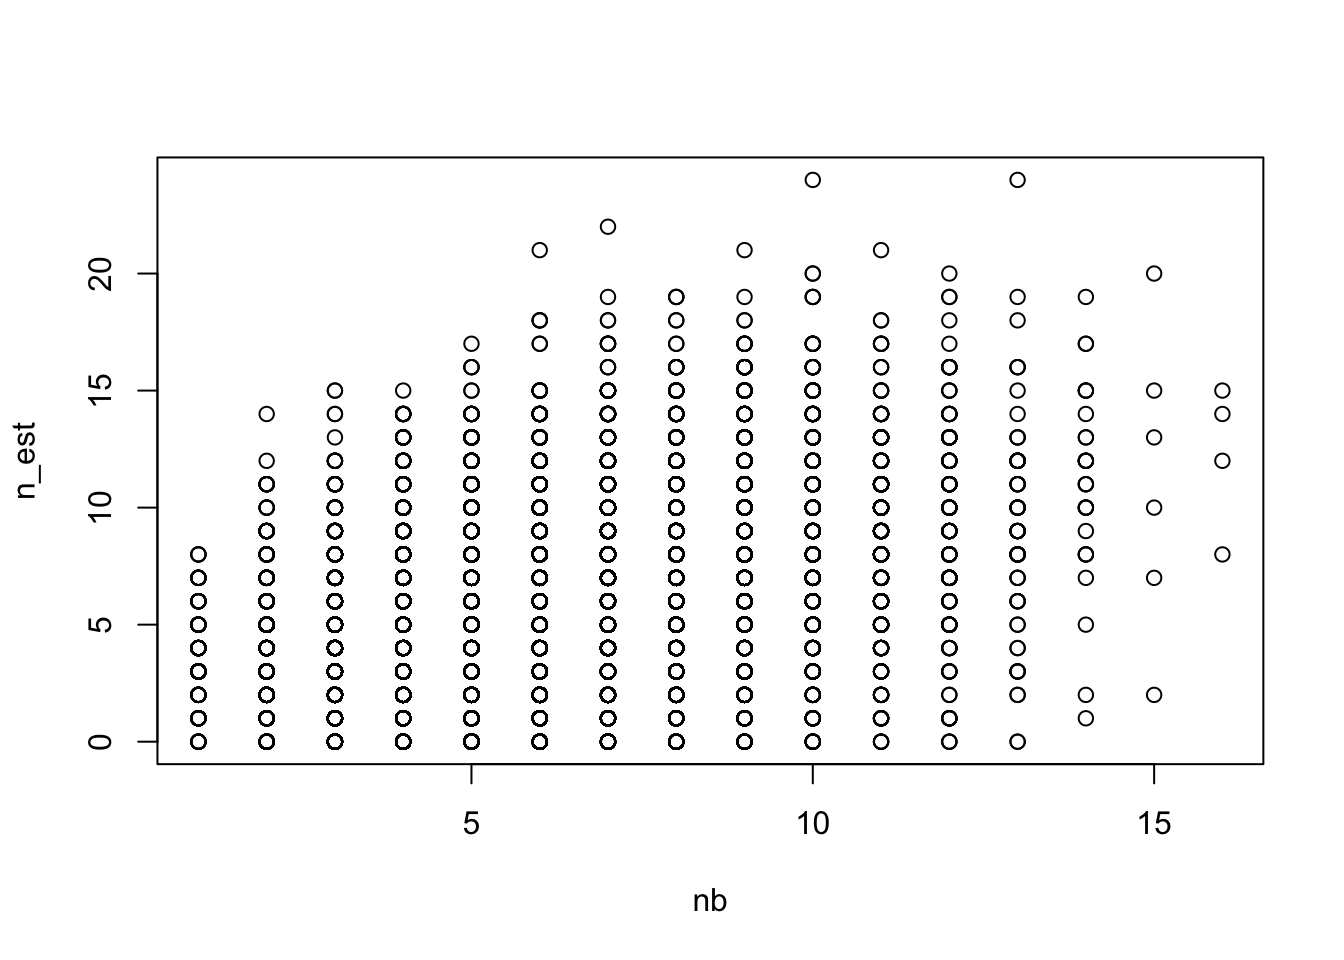
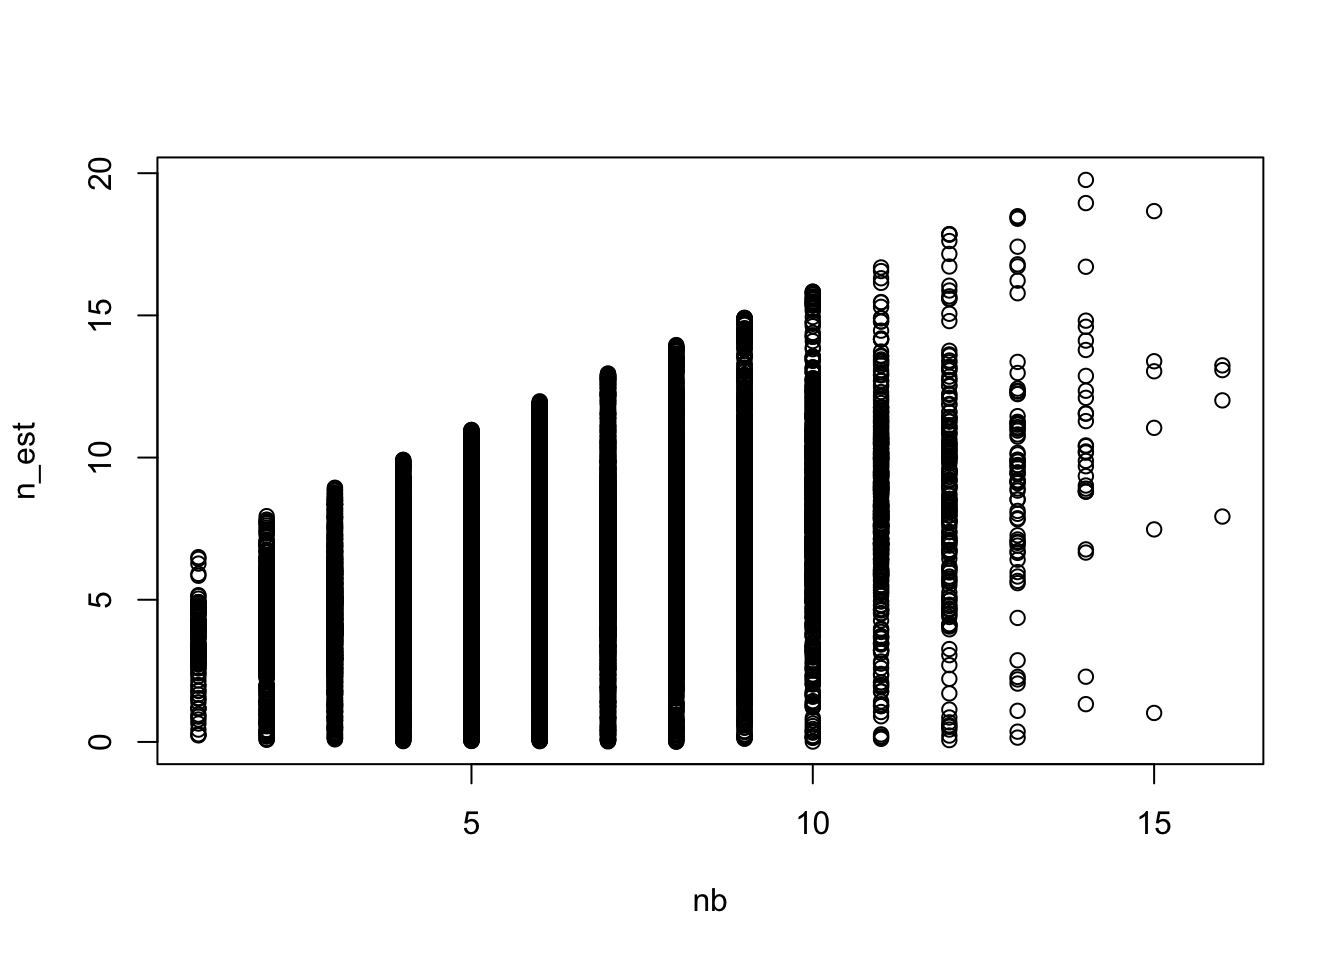
Build site.

diff --git a/docs/third-analysis.html b/docs/third-analysis.html
@@ -309,8 +309,8 @@ div.tocify {
 </div>
 
 
-<p><strong>Last updated:</strong> 2017-03-16</p>
-<p><strong>Code version:</strong> f221793</p>
+<p><strong>Last updated:</strong> 2017-04-19</p>
+<p><strong>Code version:</strong> ce45ab3</p>
 <div id="this-is-for-the-algorithem-for-the-binomial-data" class="section level2">
 <h2>This is for the algorithem for the binomial data</h2>
 Here our model is:
@@ -324,7 +324,7 @@ l_i \sim  \sum_m \pi_m^l N(l_i; 0, (\sigma_m^l)^2)
 <p>Here we allow that <span class="math inline">\((\sigma_{1}^f)^2 = 0\)</span> and <span class="math inline">\((\sigma_{1}^l)^2=0\)</span>, which means we include the point mass into the prior for each component for <span class="math inline">\(f\)</span> and <span class="math inline">\(l\)</span>.</p>
 <p>Inspired by David and following the technique in <a href="http://www.jmlr.org/proceedings/papers/v39/klami14.pdf">P`olya-Gamma augmentations for factor models</a>, we have that</p>
 <span class="math display">\[\begin{eqnarray}
-P(Y_{ij,\omega_{ij}}|Z_{ij}) = C^2_{(Y_{ij} +1)} 2^{-2}e^{Y_{ij}Z_{ij}}e^{-\omega_{ij}Z_{ij}^2 / 2}PG(\omega_{ij}|2,0)
+P(Y_{ij},\omega_{ij}|Z_{ij}) = C^2_{(Y_{ij} +1)} 2^{-2}e^{Y_{ij}Z_{ij}}e^{-\omega_{ij}Z_{ij}^2 / 2}PG(\omega_{ij}|2,0)
 \end{eqnarray}\]</span>
 <p>where <span class="math inline">\(C^2_{(Y_{ij} +1)} = \frac{2!}{(1 - Y_{ij})!(Y_{ij} +1)!}\)</span> and <span class="math inline">\(PG(\omega_{ij}|2,0)\)</span> is Polya-Gamma distribution.</p>
 </div>
@@ -490,9 +490,9 @@ f_int$Ef2 = gflash$f2
 Ltest = L_flash(NB,Y, L_K, F_K, l_int, f_int, maxiter = 200)
 
 sqrt(mean((Data$L_true %*% t(Data$F_true) - Ltest$l %*% t(Ltest$f))^2)) / sqrt(mean((Data$L_true %*% t(Data$F_true) )^2))</code></pre>
-<pre><code>[1] 0.1687944</code></pre>
+<pre><code>[1] 0.1662039</code></pre>
 <pre class="r"><code>sqrt(mean((Data$L_true %*% t(Data$F_true) - gflash$l %*% t(gflash$f))^2)) / sqrt(mean((Data$L_true %*% t(Data$F_true) )^2))</code></pre>
-<pre><code>[1] 0.3880428</code></pre>
+<pre><code>[1] 0.3867084</code></pre>
 <pre class="r"><code># rank K version
 # try the flash on the original data
 Data = datamaker(100,200,
@@ -518,9 +518,9 @@ gflash = flashr::greedy(Y,K = 8)</code></pre>
 [1] 5
 [1] &quot;stop here due to no signal&quot;</code></pre>
 <pre class="r"><code>sqrt(mean((Data$L_true %*% t(Data$F_true) - Ltest$l %*% t(Ltest$f))^2)) / sqrt(mean((Data$L_true %*% t(Data$F_true) )^2))</code></pre>
-<pre><code>[1] 0.3826516</code></pre>
+<pre><code>[1] 0.3125743</code></pre>
 <pre class="r"><code>sqrt(mean((Data$L_true %*% t(Data$F_true) - gflash$l %*% t(gflash$f))^2)) / sqrt(mean((Data$L_true %*% t(Data$F_true) )^2))</code></pre>
-<pre><code>[1] 0.4283638</code></pre>
+<pre><code>[1] 0.4493127</code></pre>
 <pre class="r"><code>par(mfrow = c(2,2),mar = c(5,4,4,2) - 1.9)
 plot(svd(Y)$d,main = &quot;eigen values&quot;)
 plot(as.vector(Data$L_true %*% t(Data$F_true)),as.vector(Ltest$l %*% t(Ltest$f)),main = &quot;estimated structure Lflash&quot;)
@@ -530,16 +530,13 @@ abline(0,1,col = &quot;red&quot;)
 library(boot)
 plot(as.vector(Data$L_true %*% t(Data$F_true)),inv.logit(as.vector(gflash$l %*% t(gflash$f))),main = &quot;estimated structure flash&quot;)
 abline(0,1,col = &quot;red&quot;)</code></pre>
-<p><img src="figure/third-analysis.Rmd/unnamed-chunk-2-1.png" width="672" style="display: block; margin: auto;" /></p>
+<p><img src="figure/third-analysis.Rmd/unnamed-chunk-3-1.png" width="672" style="display: block; margin: auto;" /></p>
 <pre class="r"><code>library(ashr)
 p_est = boot::inv.logit(as.vector(as.vector(Ltest$l %*% t(Ltest$f))))
 x = Y_vec_count
 ash.pois.out = ashr::ash(rep(0,length(x)),1,lik=lik_pois(x,scale=p_est))
 mean(ash.pois.out$result$PosteriorMean)</code></pre>
-<pre><code>[1] 5.982071</code></pre>
-<pre class="r"><code>n_est = rpois(length(x),(mean(ash.pois.out$result$PosteriorMean))* p_est) + Y_vec_count
-plot(nb,n_est)</code></pre>
-<p><img src="figure/third-analysis.Rmd/unnamed-chunk-4-1.png" width="672" style="display: block; margin: auto;" /></p>
+<pre><code>[1] 5.984582</code></pre>
 </div>
 </div>
 <div id="session-information" class="section level2">
@@ -547,7 +544,7 @@ plot(nb,n_est)</code></pre>
 <pre class="r"><code>sessionInfo()</code></pre>
 <pre><code>R version 3.3.0 (2016-05-03)
 Platform: x86_64-apple-darwin13.4.0 (64-bit)
-Running under: OS X 10.12.3 (unknown)
+Running under: OS X 10.12.4 (unknown)
 
 locale:
 [1] en_US.UTF-8/en_US.UTF-8/en_US.UTF-8/C/en_US.UTF-8/en_US.UTF-8
@@ -556,22 +553,13 @@ attached base packages:
 [1] stats     graphics  grDevices utils     datasets  methods   base     
 
 other attached packages:
-[1] workflowr_0.4.0 rmarkdown_1.3   boot_1.3-18     MASS_7.3-45    
-[5] ashr_2.1-7      devtools_1.12.0
+[1] workflowr_0.4.0 rmarkdown_1.3  
 
 loaded via a namespace (and not attached):
- [1] Rcpp_0.12.9       knitr_1.15.1      magrittr_1.5     
- [4] REBayes_0.73      doParallel_1.0.10 pscl_1.4.9       
- [7] lattice_0.20-34   SQUAREM_2016.8-2  R6_2.2.0         
-[10] foreach_1.4.3     flashr_0.1.1      stringr_1.2.0    
-[13] httr_1.2.1        tools_3.3.0       grid_3.3.0       
-[16] parallel_3.3.0    irlba_2.1.2       git2r_0.18.0     
-[19] withr_1.0.2       htmltools_0.3.5   iterators_1.0.8  
-[22] assertthat_0.1    yaml_2.1.14       rprojroot_1.2    
-[25] digest_0.6.12     Matrix_1.2-8      codetools_0.2-15 
-[28] curl_2.3          memoise_1.0.0     evaluate_0.10    
-[31] stringi_1.1.2     Rmosek_7.1.2      backports_1.0.5  
-[34] truncnorm_1.0-7  </code></pre>
+ [1] backports_1.0.5 magrittr_1.5    rprojroot_1.2   htmltools_0.3.5
+ [5] tools_3.3.0     yaml_2.1.14     Rcpp_0.12.9     stringi_1.1.2  
+ [9] knitr_1.15.1    git2r_0.18.0    stringr_1.2.0   digest_0.6.12  
+[13] evaluate_0.10  </code></pre>
 </div>
 
 <hr>
